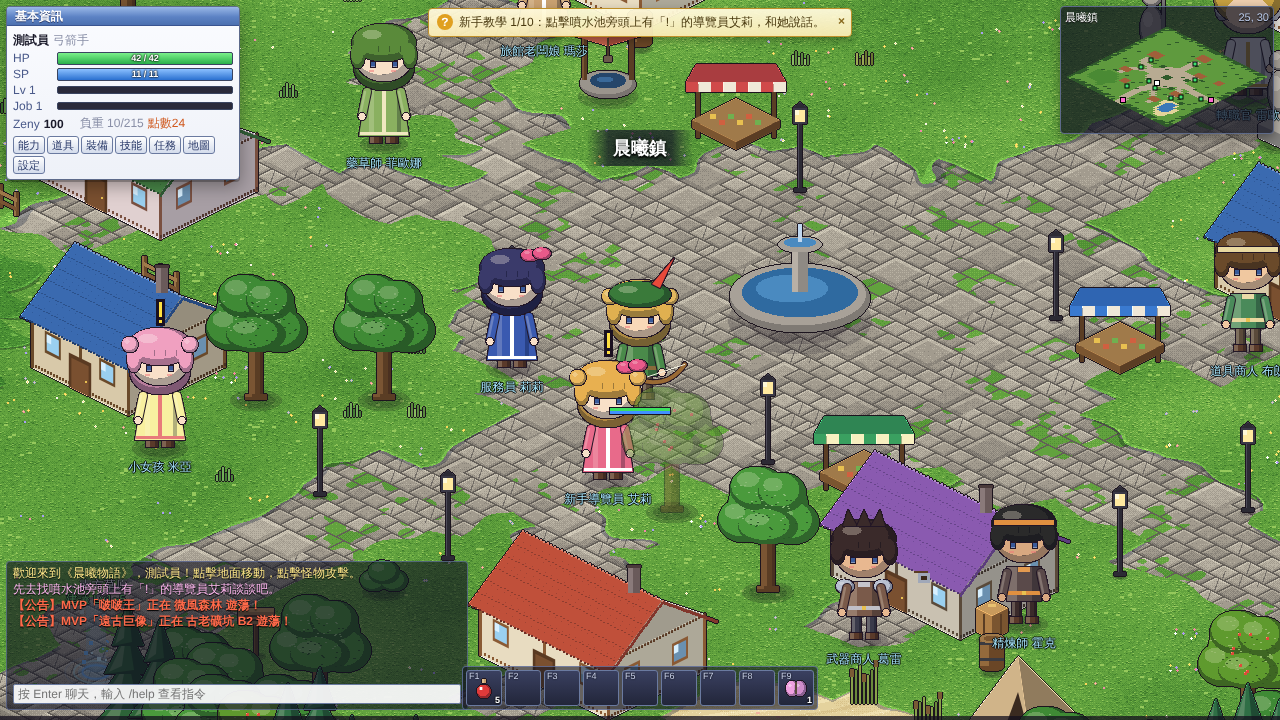
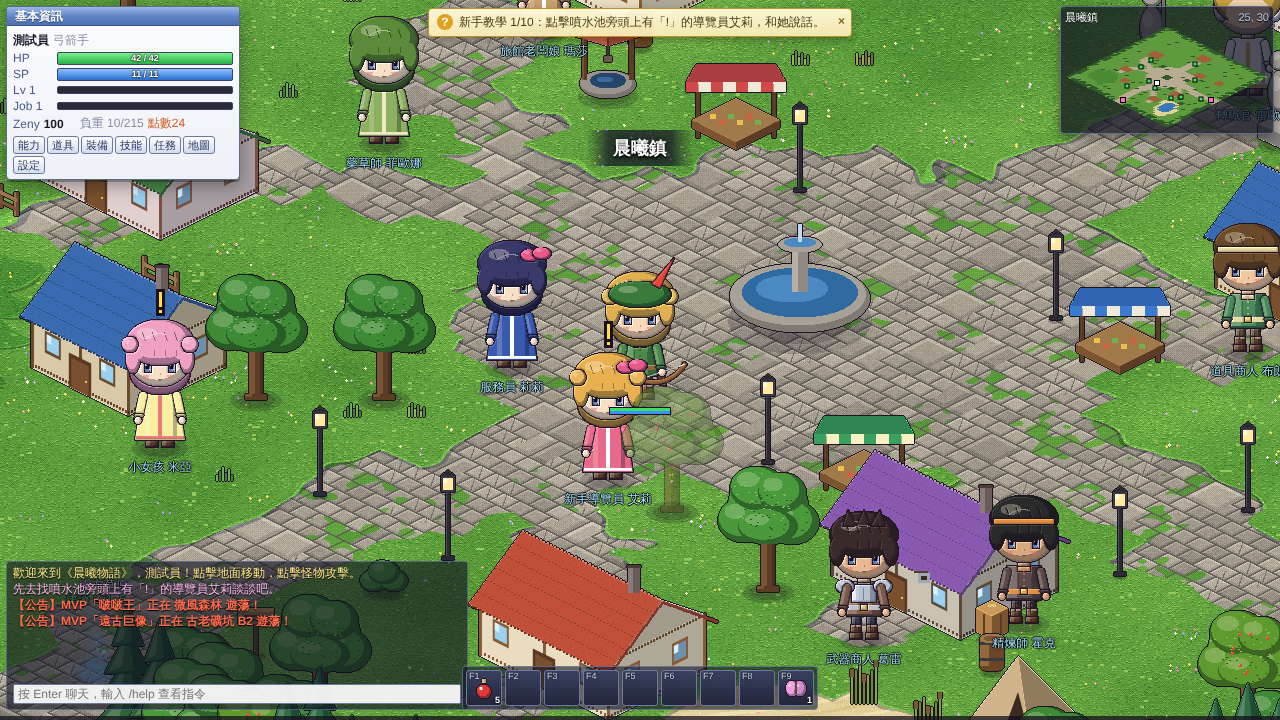
畫面改版 1：角色 sprite 精緻化（大眼、衣物細節、披風、邊緣打光）與 PNG sheet 替換
Claude-Session: https://claude.ai/code/session_01T2m48zuVeiYqCrQn65uTXz

diff --git a/ro-mmorpg/src/render/SpriteFactory.ts b/ro-mmorpg/src/render/SpriteFactory.ts
@@ -40,7 +40,13 @@ function limb(c: CanvasRenderingContext2D, x0: number, y0: number, x1: number, y
   c.strokeStyle = OUTC; c.lineWidth = w + 2; c.beginPath(); c.moveTo(x0, y0); c.lineTo(x1, y1); c.stroke();
   c.strokeStyle = css(col); c.lineWidth = w; c.beginPath(); c.moveTo(x0, y0); c.lineTo(x1, y1); c.stroke();
   c.strokeStyle = css(shade(col, 0.25)); c.lineWidth = Math.max(1, w * 0.3); c.beginPath(); c.moveTo(x0 - w * 0.25, y0); c.lineTo(x1 - w * 0.25, y1); c.stroke();
-  if (end) { c.fillStyle = OUTC; pxEllipse(c, x1, y1, 4.5, 4.5); c.fillStyle = css(end); pxEllipse(c, x1, y1, 3.5, 3.5); }
+  if (end) {
+    // 袖口
+    const cx = x0 + (x1 - x0) * 0.78, cy = y0 + (y1 - y0) * 0.78;
+    c.fillStyle = OUTC; pxEllipse(c, cx, cy, w / 2 + 1.5, 3); c.fillStyle = css(shade(col, -0.25)); pxEllipse(c, cx, cy, w / 2 + 0.5, 2);
+    c.fillStyle = OUTC; pxEllipse(c, x1, y1, 4.5, 4.5); c.fillStyle = css(end); pxEllipse(c, x1, y1, 3.5, 3.5);
+    c.fillStyle = css(shade(end, 0.35)); c.fillRect(Math.round(x1 - 2), Math.round(y1 - 2), 2, 1);
+  }
 }
 function line(c: CanvasRenderingContext2D, x0: number, y0: number, x1: number, y1: number, w: number, col: string) {
   c.lineCap = 'round'; c.strokeStyle = col; c.lineWidth = w; c.beginPath(); c.moveTo(x0, y0); c.lineTo(x1, y1); c.stroke();
@@ -164,14 +170,31 @@ function drawHuman(c: CanvasRenderingContext2D, dir: number, f: number, L: Look)
     oRect(c, ax - 6 + s2 + leanX * 0.5, footY - 5 + Math.min(0, -Math.abs(s2) * 0.3), 12, 6, shade(shoes, -0.2));
     oRect(c, ax - 6 + s1 + leanX * 0.5, by(160), 9, footY - by(160) - 4, pants);
     oRect(c, ax - 10 + s1 + leanX * 0.5, footY - 5 + Math.min(0, -Math.abs(s1) * 0.3), 12, 6, shoes);
+    oRect(c, ax - 6 + s1 + leanX * 0.5, footY - 12, 9, 7, shoes);
+    c.fillStyle = css(shade(shoes, 0.35)); c.fillRect(ax - 6 + s1 + leanX * 0.5, footY - 12, 9, 2);
   } else {
     const liftL = Math.max(0, p.legA) * 4, liftR = Math.max(0, -p.legA) * 4;
     if (!robe) {
       oRect(c, ax - 12, by(160), 9, footY - by(160) - 4 - liftL, pants);
       oRect(c, ax + 3, by(160), 9, footY - by(160) - 4 - liftR, pants);
     }
-    oRect(c, ax - 14, footY - 5 - liftL, 12, 6, shoes);
-    oRect(c, ax + 2, footY - 5 - liftR, 12, 6, shoes);
+    // 靴子：靴筒＋翻邊＋鞋底
+    for (const [x0, lift] of [[ax - 14, liftL], [ax + 2, liftR]]) {
+      oRect(c, x0 + 1, footY - 13 - lift, 10, 9, shoes);
+      oRect(c, x0, footY - 5 - lift, 12, 6, shoes);
+      c.fillStyle = css(shade(shoes, 0.35)); c.fillRect(x0 + 1, footY - 13 - lift, 10, 2);
+      c.fillStyle = css(shade(shoes, -0.5)); c.fillRect(x0, footY - lift, 12, 1);
+      c.fillStyle = css(shade(shoes, 0.25)); c.fillRect(x0 + 2, footY - 4 - lift, 3, 1);
+    }
+    if (!robe) { c.fillStyle = css(shade(pants, -0.3)); c.fillRect(ax - 9, by(166), 1, 8); c.fillRect(ax + 6, by(166), 1, 8); }
+  }
+  // ---- 披風（身後） ----
+  if (L.cape && !robe) {
+    const cp = hex(L.cape), sway = f >= 2 && f < 6 ? Math.sin(((f - 2) / 4) * Math.PI * 2) * 3 : f === 1 ? 1 : 0;
+    if (back) oPoly(c, [[ax - 19, by(130)], [ax + 19, by(130)], [ax + 23 + sway, by(176)], [ax - 23 + sway, by(176)]], cp);
+    else if (side) oPoly(c, [[ax - 2 + leanX, by(130)], [ax + 12 + leanX, by(132)], [ax + 22 + sway, by(172)], [ax + 4 + sway, by(176)]], shade(cp, -0.1));
+    else { oPoly(c, [[ax - 21, by(132)], [ax - 26 - sway, by(172)], [ax - 18, by(170)]], shade(cp, -0.15)); oPoly(c, [[ax + 21, by(132)], [ax + 26 + sway, by(172)], [ax + 18, by(170)]], shade(cp, -0.15)); }
+    if (back) { c.fillStyle = css(shade(cp, -0.3)); c.fillRect(ax - 8, by(140), 1, 30); c.fillRect(ax + 8, by(140), 1, 30); c.fillStyle = css(shade(cp, 0.25)); c.fillRect(ax - 17, by(132), 4, 40); }
   }
   // ---- 身體 ----
   const tx = side ? ax - 12 + leanX : ax - 17, tw = side ? 24 : 34, ty = by(128) + leanY;
@@ -184,53 +207,87 @@ function drawHuman(c: CanvasRenderingContext2D, dir: number, f: number, L: Look)
     if (!side && !back) { c.fillStyle = css(cloth2); c.fillRect(ax - 2, ty + 4, 4, hem - ty - 8); }
   } else {
     oRect(c, tx, ty, tw, 34, cloth);
-    c.fillStyle = css(cloth2); c.fillRect(tx, ty + 24, tw, 4); // 腰帶
-    c.fillStyle = '#e8c050'; if (!back) c.fillRect(side ? tx + 2 : ax - 2, ty + 24, 4, 4);
-    if (!side && !back) { c.fillStyle = css(shade(cloth2, 0.1)); c.fillRect(ax - 6, ty, 12, 5); } // 領口
-    if (L.body === 'armor') { // 肩甲
+    // 衣褶、下擺
+    c.fillStyle = css(shade(cloth, -0.18)); c.fillRect(tx + Math.round(tw * 0.32), ty + 8, 1, 14); c.fillRect(tx + Math.round(tw * 0.7), ty + 10, 1, 12);
+    c.fillStyle = css(shade(cloth, -0.3)); c.fillRect(tx, ty + 32, tw, 2);
+    c.fillStyle = css(cloth2); c.fillRect(tx, ty + 23, tw, 5); // 腰帶
+    c.fillStyle = css(shade(cloth2, 0.3)); c.fillRect(tx, ty + 23, tw, 1);
+    if (!back) { c.fillStyle = OUTC; c.fillRect(side ? tx + 1 : ax - 4, ty + 22, 8, 7); c.fillStyle = '#e8c050'; c.fillRect(side ? tx + 2 : ax - 3, ty + 23, 6, 5); c.fillStyle = '#fff4b0'; c.fillRect(side ? tx + 2 : ax - 3, ty + 23, 2, 2); c.fillStyle = css(cloth2); c.fillRect(side ? tx + 4 : ax - 1, ty + 25, 2, 1); }
+    if (!side && !back) {
+      c.fillStyle = OUTC; c.fillRect(ax - 7, ty - 1, 14, 7);
+      c.fillStyle = css(shade(cloth2, 0.15)); c.fillRect(ax - 6, ty, 12, 5); // 領口
+      c.fillStyle = css(shade(hex(L.skin || '#f8d8b8'), -0.1)); c.beginPath(); c.moveTo(ax - 4, ty); c.lineTo(ax + 4, ty); c.lineTo(ax, ty + 6); c.fill();
+      c.fillStyle = css(shade(cloth2, -0.2)); c.fillRect(ax - 1, ty + 7, 2, 2); c.fillRect(ax - 1, ty + 13, 2, 2); c.fillRect(ax - 1, ty + 19, 2, 2); // 鈕扣
+    }
+    if (L.body === 'armor') { // 胸甲＋肩甲
+      if (!back) { oRect(c, side ? tx + 3 : tx + 5, ty + 3, side ? tw - 6 : tw - 10, 17, hex('#b8c0d0')); c.fillStyle = '#e8eef8'; c.fillRect(side ? tx + 4 : tx + 6, ty + 4, 3, 14); c.fillStyle = '#7a8498'; c.fillRect(side ? tx + 3 : ax - 1, ty + 6, 1, 12); }
       oEllipse(c, side ? tx + 10 : tx - 2, ty + 4, 9, 7, hex('#b8c0d0'));
       if (!side) oEllipse(c, tx + tw + 2, ty + 4, 9, 7, hex('#b8c0d0'));
+      c.fillStyle = '#e8c050'; c.fillRect(side ? tx + 9 : tx - 3, ty + 1, 2, 2); if (!side) c.fillRect(tx + tw + 1, ty + 1, 2, 2);
     }
   }
   // ---- 頭 ----
   const hx = side ? ax - 3 + leanX : ax, hy = by(96) + leanY;
+  // 脖子
+  oRect(c, hx - 6, hy + 20, 12, 12, shade(skin, -0.15));
   // 後髮（正面時在頭後）
   if (!side && !back && (L.hairStyle === 1 || L.hairStyle === 3)) mEllipses(c, [[hx, hy + 14, 30, 22]], shade(hair, -0.2));
   // ---- 手臂（正面/背面兩側，側面前手） ----
   if (side) limb(c, shR[0], shR[1], hR[0], hR[1], 8, cloth, skin);
-  oEllipse(c, hx, hy, side ? 27 : 30, 27, skin);
+  oEllipse(c, hx, hy, side ? 28 : 31, 28, skin);
+  if (!back) { c.fillStyle = css(shade(skin, 0.4)); c.fillRect(hx - (side ? 20 : 20), hy + 2, 4, 2); }
   if (!side) { limb(c, shL[0], shL[1], hL[0], hL[1], 8, cloth, skin); limb(c, shR[0], shR[1], hR[0], hR[1], 8, cloth, skin); }
-  // ---- 臉 ----
+  // ---- 臉：大眼（眼白、雙色虹膜、瞳孔、雙高光、睫毛、眉毛） ----
   if (!back) {
-    const ex = side ? [hx - 16] : [hx - 11, hx + 11];
+    const eye = hex(L.eye || '#3a5a9a');
+    const ex = side ? [hx - 17] : [hx - 12, hx + 12];
     for (const x of ex) {
-      c.fillStyle = OUTC; c.fillRect(x - 3, hy + 3, 6, 11);
-      c.fillStyle = css(hex(L.eye || '#3a5a9a')); c.fillRect(x - 2, hy + 8, 4, 5);
-      c.fillStyle = css(shade(hex(L.eye || '#3a5a9a'), 0.4)); c.fillRect(x - 2, hy + 12, 4, 1);
-      c.fillStyle = '#ffffff'; c.fillRect(x - 2, hy + 4, 2, 3);
-      c.fillStyle = 'rgba(240,120,120,0.55)'; c.fillRect(x - (side ? 3 : 4), hy + 16, 5, 2);
+      const y0 = hy + 2;
+      c.fillStyle = OUTC; c.fillRect(x - 4, y0, 8, 13);              // 眼框
+      c.fillStyle = '#ffffff'; c.fillRect(x - 3, y0 + 2, 6, 10);      // 眼白
+      c.fillStyle = css(shade(eye, -0.35)); c.fillRect(x - 3, y0 + 3, 5, 9); // 虹膜（上暗）
+      c.fillStyle = css(eye); c.fillRect(x - 3, y0 + 7, 5, 5);
+      c.fillStyle = css(shade(eye, 0.45)); c.fillRect(x - 2, y0 + 10, 3, 2); // 虹膜下緣亮
+      c.fillStyle = '#140c18'; c.fillRect(x - 2, y0 + 5, 3, 4);       // 瞳孔
+      c.fillStyle = '#ffffff'; c.fillRect(x - 3, y0 + 3, 2, 3); c.fillRect(x + 1, y0 + 9, 1, 1); // 高光
+      c.fillStyle = OUTC; c.fillRect(x - 5, y0, 10, 2);               // 上睫毛
+      if (!side || true) c.fillRect(x + (x < hx ? -6 : 4), y0 - 1, 2, 2);
+      c.fillStyle = css(shade(hex(L.hair || '#7a4a2a'), -0.35)); c.fillRect(x - 4, y0 - 5, 8, 2); // 眉毛
+      c.fillStyle = 'rgba(240,110,120,0.5)'; c.fillRect(x - (side ? 3 : 5), hy + 17, 6, 2); c.fillRect(x - (side ? 2 : 4), hy + 19, 4, 1);
     }
-    c.fillStyle = css(shade(skin, -0.45)); c.fillRect(side ? hx - 22 : hx - 2, hy + 20, side ? 3 : 4, 1);
+    c.fillStyle = css(shade(skin, -0.25)); c.fillRect(side ? hx - 27 : hx, hy + 15, 1, 2); // 鼻
+    c.fillStyle = css(shade(skin, -0.5)); c.fillRect(side ? hx - 23 : hx - 2, hy + 21, side ? 3 : 4, 1); // 嘴
+    c.fillStyle = '#c8505a'; if (!side) c.fillRect(hx - 1, hy + 22, 2, 1);
   }
   // ---- 頭髮（合成一個形狀） ----
   const hs = L.hairStyle || 0;
   if (back) {
-    const es = [[hx, hy - 3, 31, 27]];
+    const es = [[hx, hy - 7, 32, 31]];
     if (hs === 1 || hs === 3) es.push([hx, hy + 20, 22, 14]); else es.push([hx, hy + 14, 26, 12]);
     mEllipses(c, es, hair);
     c.fillStyle = css(shade(hair, -0.35)); c.fillRect(hx - 1, hy - 6, 2, 22);
   } else if (side) {
-    const es = [[hx + 4, hy - 10, 29, 19], [hx + 15, hy + 3, 16, 20], [hx - 16, hy - 8, 10, 7]];
+    const es = [[hx + 4, hy - 15, 30, 23], [hx + 15, hy + 1, 17, 21], [hx - 17, hy - 10, 11, 8]];
     if (hs === 1) es.push([hx + 20, hy + 20, 10, 16]);
     mEllipses(c, es, hair);
     if (hs === 2) for (let i = 0; i < 3; i++) oPoly(c, [[hx + 6 + i * 8, hy - 24], [hx + 14 + i * 8, hy - 40 + i * 2], [hx + 18 + i * 8, hy - 22]], hair);
   } else {
-    const es = [[hx, hy - 12, 32, 19], [hx - 26, hy + 1, 7, 13], [hx + 26, hy + 1, 7, 13]];
+    const es = [[hx, hy - 16, 34, 23], [hx - 27, hy + 1, 7, 14], [hx + 27, hy + 1, 7, 14]];
     for (let i = -2; i <= 2; i++) es.push([hx + i * 11, hy - 6 + Math.abs(i) * 2, 7, 5]);
     mEllipses(c, es, hair);
     c.fillStyle = css(shade(hair, -0.3)); for (let i = -1; i <= 1; i++) c.fillRect(hx + i * 11 + 5, hy - 8, 1, 6);
     if (hs === 2) for (let i = -1; i <= 1; i++) oPoly(c, [[hx + i * 14 - 7, hy - 24], [hx + i * 16, hy - 40], [hx + i * 14 + 7, hy - 24]], hair);
     if (hs === 3) { oEllipse(c, hx - 30, hy - 14, 8, 8, shade(hair, 0.1)); oEllipse(c, hx + 30, hy - 14, 8, 8, shade(hair, 0.1)); }
+  }
+  // 髮絲與光澤帶（天使光環）
+  {
+    const dk = css(shade(hair, -0.4)), lt = css(shade(hair, 0.45));
+    const cx = side ? hx + 4 : hx, top = hy - 34;
+    c.fillStyle = dk;
+    for (const k of side ? [-12, -2, 8, 16] : [-18, -8, 4, 14]) for (let i = 0; i < 9; i++) c.fillRect(Math.round(cx + k + i * 0.35), top + 8 + i, 1, 1);
+    c.fillStyle = lt;
+    for (let i = -14; i <= 6; i++) { const yy = top + 9 + Math.round((i * i) / 40); if (!back || i < 4) c.fillRect(cx + i - 2, yy, 2, 1); }
+    c.fillRect(cx - 10, top + 5, 4, 1);
   }
   // ---- 帽子 ----
   if (L.hat === 'wizard') {
@@ -465,6 +522,28 @@ function drawMonster(c: CanvasRenderingContext2D, dir: number, f: number, L: Loo
   (MON[L.body || 'slime'] || MON.slime)(c, dir, f, L, s, ax, ay);
 }
 
+// ---------- 左上光源的邊緣打光 ----------
+/** 每個部位都有自己的深色外框：外框（或透明）在左上方的像素加亮、在右下方的像素壓暗，讓每塊都有體積感 */
+function celLight(c: CanvasRenderingContext2D, fw: number) {
+  const img = c.getImageData(0, 0, fw, fw), d = img.data, n = fw * fw;
+  const edge = new Uint8Array(n);
+  for (let i = 0; i < n; i++) { const k = i * 4; edge[i] = d[k + 3] === 0 || (d[k] < 50 && d[k + 1] < 40 && d[k + 2] < 55) ? 1 : 0; }
+  const out = new Uint8ClampedArray(d);
+  for (let y = 2; y < fw - 2; y++) for (let x = 2; x < fw - 2; x++) {
+    const i = y * fw + x; if (edge[i]) continue;
+    const k = i * 4;
+    const ul = edge[i - fw - 1] || edge[i - 1] || edge[i - fw];
+    const dr = edge[i + fw + 1] || edge[i + 1] || edge[i + fw];
+    const dr2 = edge[i + 2 * fw + 2] || edge[i + 2] || edge[i + 2 * fw];
+    let f = 1, add = 0;
+    if (ul && !dr) { f = 1.14; add = 14; }
+    else if (dr) f = 0.78;
+    else if (dr2) f = 0.9;
+    if (f !== 1) { out[k] = d[k] * f + add; out[k + 1] = d[k + 1] * f + add; out[k + 2] = d[k + 2] * f + add * 0.8 + (f < 1 ? 6 : 0); }
+  }
+  img.data.set(out); c.putImageData(img, 0, 0);
+}
+
 // ---------- 生成 sheet ----------
 function buildSheet(fw: number, draw: (c: CanvasRenderingContext2D, dir: number, f: number) => void): Sheet {
   const cv = makeCanvas(fw * FRAMES, fw * ROWS);
@@ -474,6 +553,7 @@ function buildSheet(fw: number, draw: (c: CanvasRenderingContext2D, dir: number,
     cc.clearRect(0, 0, fw, fw);
     draw(cc, dir, f);
     crisp(cc, 0, 0, fw, fw);
+    celLight(cc, fw);
     c.drawImage(cell, f * fw, dir * fw);
     if (dir === 1) { // 鏡像產生面向右
       c.save(); c.translate(f * fw + fw, 2 * fw); c.scale(-1, 1); c.drawImage(cell, 0, 0); c.restore();
@@ -482,16 +562,26 @@ function buildSheet(fw: number, draw: (c: CanvasRenderingContext2D, dir: number,
   return { c: cv, fw, fh: fw, ax: fw / 2, ay: fw - 6 };
 }
 const sheetCache = new Map<string, Sheet>();
+/** 若 look.sheet 指定了 PNG（同規格 4 列×10 格），載入後直接替換程式圖；載入前或失敗時用程式圖 */
+function useImage(s: Sheet, url?: string) {
+  if (!url) return;
+  const img = new Image();
+  img.onload = () => {
+    if (img.width !== s.fw * FRAMES || img.height !== s.fh * ROWS) { console.warn('sprite sheet 尺寸不符', url, img.width, img.height); return; }
+    const c = s.c.getContext('2d')!; c.clearRect(0, 0, s.c.width, s.c.height); c.drawImage(img, 0, 0); s.white = undefined; s.img = img;
+  };
+  img.src = url;
+}
 export function humanSheet(L: Look): Sheet {
   const k = 'h:' + JSON.stringify(L);
   let s = sheetCache.get(k);
-  if (!s) { s = buildSheet(192, (c, dir, f) => drawHuman(c, dir, f, L)); sheetCache.set(k, s); }
+  if (!s) { s = buildSheet(192, (c, dir, f) => drawHuman(c, dir, f, L)); sheetCache.set(k, s); useImage(s, L.sheet); }
   return s;
 }
 export function monsterSheet(L: Look, fw: number): Sheet {
   const k = 'm:' + fw + JSON.stringify(L);
   let s = sheetCache.get(k);
-  if (!s) { s = buildSheet(fw, (c, dir, f) => drawMonster(c, dir, f, L, fw)); sheetCache.set(k, s); }
+  if (!s) { s = buildSheet(fw, (c, dir, f) => drawMonster(c, dir, f, L, fw)); sheetCache.set(k, s); useImage(s, L.sheet); }
   return s;
 }
 /** 受擊閃白用的白色剪影（需要時才生成） */

diff --git a/ro-mmorpg/tools/act/smooth.js b/ro-mmorpg/tools/act/smooth.js
@@ -1,0 +1,25 @@
+// 流暢度量測：沿直線走 ~4 秒，記錄每幀主角螢幕座標、相機、幀間隔、render 耗時
+await page.evaluate(() => { const G = window.__game; G.loadMap(process_map(), 18, 18); function process_map() { return 'forest'; } });
+await sleep(800);
+const r = await page.evaluate(() => new Promise((res) => {
+  const G = window.__game; const orig = G.render.bind(G); const rt = [];
+  G.render = (a, dt) => { const t0 = performance.now(); orig(a, dt); rt.push(performance.now() - t0); };
+  G.walkTo(40.5, 40.5);
+  const xs = [], ft = []; let last = performance.now();
+  const tick = (now) => {
+    const p = G.player, a = G.alpha, L = G.cam.left(G.r.w), T = G.cam.top(G.r.h);
+    xs.push([Math.round((p.ix(a) - p.iy(a)) * 32 - L), Math.round((p.ix(a) + p.iy(a)) * 16 - T), L, T]); ft.push(now - last); last = now;
+    if (p.path.length && xs.length < 600) requestAnimationFrame(tick); else { G.render = orig; res({ xs, ft, rt }); }
+  };
+  requestAnimationFrame(tick);
+}));
+let rev = 0, jump = 0, camRev = 0;
+for (let i = 2; i < r.xs.length; i++) {
+  const d1 = r.xs[i][1] - r.xs[i - 1][1], d0 = r.xs[i - 1][1] - r.xs[i - 2][1]; if (d1 * d0 < 0) rev++;
+  if (Math.abs(r.xs[i][0] - r.xs[i - 1][0]) > 2 || Math.abs(d1) > 3) jump++;
+  const c1 = r.xs[i][3] - r.xs[i - 1][3], c0 = r.xs[i - 1][3] - r.xs[i - 2][3]; if (c1 * c0 < 0) camRev++;
+}
+const avg = (a) => a.reduce((s, v) => s + v, 0) / a.length;
+const ft = r.ft.slice(5).sort((a, b) => a - b);
+const out = { frames: r.xs.length, screenReversals: rev, bigJumps: jump, cameraReversals: camRev, frameMsAvg: +avg(ft).toFixed(2), frameMsP95: +ft[Math.floor(ft.length * 0.95)].toFixed(2), renderMsAvg: +avg(r.rt).toFixed(2), renderMsP95: +r.rt.sort((a, b) => a - b)[Math.floor(r.rt.length * 0.95)].toFixed(2) };
+console.log('SMOOTH', JSON.stringify(out));

diff --git a/ro-mmorpg/src/data/index.ts b/ro-mmorpg/src/data/index.ts
@@ -30,7 +30,7 @@ export interface Look {
   body?: string;            // 怪物外形：slime/bug/rabbit/plant/bat/mushroom/wolf/humanoid/golem/ghost/crab/bee/snake/flower/bird/fish
   color?: string; color2?: string; eye?: string;
   hair?: string; skin?: string; cloth?: string; cloth2?: string; pants?: string; hairStyle?: number;
-  weapon?: string; hat?: string; scale?: number; sheet?: string;
+  weapon?: string; hat?: string; scale?: number; sheet?: string; cape?: string; mouth?: string;
 }
 export interface DropDef { item: string; rate: number }
 export interface MonsterDef {

diff --git a/ro-mmorpg/PROGRESS.md b/ro-mmorpg/PROGRESS.md
@@ -112,3 +112,17 @@
 
 ## 全部階段完成
 之後可以做的：把 `SpriteFactory` 的程式圖換成美術 sheet（同規格直接替換）、更多地圖與二轉、組隊／交易（目前是單機）。
+
+---
+# 第二輪：畫面改版（只改畫面，移動／戰鬥／相機／遊戲迴圈不動）
+
+改版前基準（tools/act/smooth.js，森林直線走 ~6 秒，跑兩次）：螢幕座標反轉 0~1 次、大跳 1 次、相機反轉 0 次、平均幀間隔 17.4ms、render 平均 1.6ms。截圖 `screenshots/改版前_森林.png`、`改版前_手機.png`。
+
+## 1. 角色精緻化（完成）
+- 這個環境沒有生圖工具，所以改進程式生成器 `SpriteFactory`（規格不變：192×192、腳底 96,186、4 方向×10 格、站高 128px）：
+  - 大眼睛（眼框、眼白、雙色虹膜、瞳孔、兩點高光、睫毛、眉毛）、鼻、嘴、腮紅；脖子；頭髮加髮絲線與光澤帶、頭髮更蓬。
+  - 衣服：衣褶、下擺、領口、鈕扣、金屬扣環腰帶；袖口、手部高光；靴筒＋翻邊＋鞋底；劍士胸甲＋肩甲鉚釘＋紅披風、弓箭手棕披風、隊長藍披風；披風走路會擺動。
+  - 新增「左上光源邊緣打光」後處理（celLight）：每個部位外框的左上側加亮、右下側壓暗，所有角色、NPC、怪物都更有體積感。
+- 支援美術圖替換：`look.sheet` 指定同規格 PNG（1920×768）就會在載入後直接取代程式圖，尺寸不符會警告並保留程式圖。
+- 一張角色 sheet 生成約 39ms（只在換外觀時發生一次，不影響每幀）。
+- 截圖：`screenshots/改版1_角色.png`、`screenshots/改版1_職業sheet.png`

diff --git a/ro-mmorpg/DECISIONS.md b/ro-mmorpg/DECISIONS.md
@@ -41,3 +41,4 @@
 | 37 | 平衡基準 | 機器人純練功 Lv1→10 約 15 分鐘；加上撿道具、走路、任務，實際約 20 分鐘 | 規格「Lv1→10 約 20 分鐘」 |
 | 38 | 嗡嗡蜂 | 改成被動＋同族支援（原本主動） | 森林是初心者 Lv5~10 的地圖，主動蜂群讓初心者死太多次；主動怪改在海岸以後出現 |
 | 39 | 新手教學 | 用畫面上方的提示條＋導覽員 NPC，而不是強制劇情 | 不打斷遊玩，RO 新手島精神但更輕量 |
+| 40 | 高解析 sprite | 環境沒有生圖工具，改為加強程式繪製（細節＋邊緣打光），並保留 `look.sheet` PNG 替換管道 | 規格同為 192×192／4×10，之後拿到美術圖可直接放進來 |
